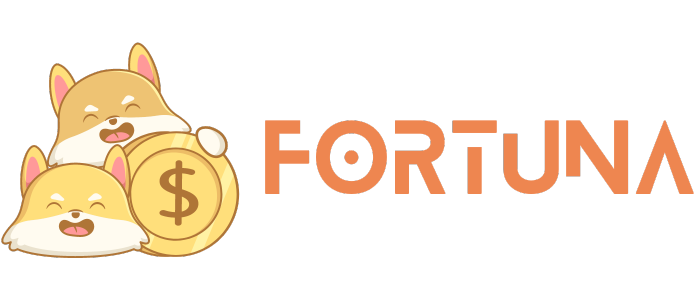
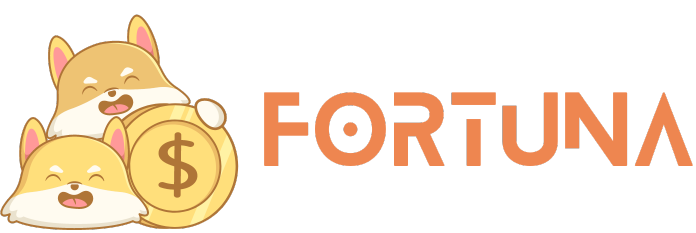
a

Changed region(s): [[0.0, 0.0601, 0.4224, 0.9914], [0.3621, 0.3906, 0.9957, 0.721]]

diff --git a/src/pages/team.js b/src/pages/team.js
@@ -1,0 +1,61 @@
+import React, { useEffect } from 'react';
+import { Card, Row, Col } from 'antd';
+import AOS from 'aos';
+import 'aos/dist/aos.css';
+import AdityaImg from '../assets/aditya.png';
+import SahilImg from '../assets/sahil.png';
+import VishalImg from '../assets/vishal.png';
+import ShankyImg from '../assets/shanky.png';
+import '../App.css'; // Import the CSS file containing the glowing effect class
+
+const Team = () => {
+    useEffect(() => {
+        AOS.init({ duration: 1000 });
+    }, []);
+
+    return (
+        <div style={{ padding: '20px' }}>
+            <h1 style={{ textAlign: 'center', marginBottom: '30px' }}>Our Team</h1>
+            <Row gutter={16} justify="center">
+                <Col span={6} data-aos="fade-up">
+                    <Card
+                        cover={<img alt="Team Member 1" src={AdityaImg} />}
+                        className="glowy"
+                        style={{ marginBottom: '20px' }}
+                    >
+                        <Card.Meta title="Aditya Verma" description="Project Manager & Developer" />
+                    </Card>
+                </Col>
+                <Col span={6} data-aos="fade-up" data-aos-delay="100">
+                    <Card
+                        cover={<img alt="Team Member 2" src={SahilImg} />}
+                        className="glowy"
+                        style={{ marginBottom: '20px', marginLeft: '20px' }}
+                    >
+                        <Card.Meta title="Sahil Adhikari" description="Developer" />
+                    </Card>
+                </Col>
+                <Col span={6} data-aos="fade-up" data-aos-delay="200">
+                    <Card
+                        cover={<img alt="Team Member 3" src={VishalImg} />}
+                        className="glowy"
+                        style={{ marginBottom: '20px', marginLeft: '20px' }}
+                    >
+                        <Card.Meta title="Vishal Mohan Nair" description="Developer" />
+                    </Card>
+                </Col>
+                <Col span={6} data-aos="fade-up" data-aos-delay="300">
+                    <Card
+                        cover={<img alt="Team Member 4" src={ShankyImg} />}
+                        className="glowy"
+                        style={{ marginBottom: '20px', marginLeft: '20px' }}
+                    >
+                        <Card.Meta title="Adityasankar Sengupta" description="Developer" />
+                    </Card>
+                </Col>
+            </Row>
+        </div>
+    );
+}
+
+export default Team;

diff --git a/src/components/navbar.js b/src/components/navbar.js
@@ -37,7 +37,7 @@ const Navbar = () => {
             <div className="grid grid-cols-12 my-10 md:mx-16 mx-8 font-[Montserrat]">
                 <div className="col-span-4 flex gap-12 items-center justify-between">
                     <h1 className="text-white text-xl font-[Inter]">
-                        <Link to={'/'}><img src={logo} className="" /></Link>
+                        <Link to={'/'}><img src={logo} style={{ transform: 'scale(1.8)' }} className="logo" /></Link>
                     </h1>
                     <Link to={'/redeem'}><span className="text-[#ee8650] font-[Oswald] hidden md:block font-semibold uppercase">Redeem</span></Link>
                     <Link to={'/create-link'}><span className="text-[#ee8650] font-[Oswald] hidden md:block font-semibold uppercase">Create</span></Link>
@@ -56,6 +56,7 @@ const Navbar = () => {
                             </span>
                         </Popover>
                     </div>
+                    <Link to={'/team'}><span className="text-[#ee8650] font-[Oswald] hidden md:block font-semibold uppercase">TEAM</span></Link>
                 </div>
                 <div className="col-span-5"></div>
                 <div className="col-span-3 flex items-center justify-end text-[#ee8650] text-sm md:text-base">

diff --git a/src/App.js b/src/App.js
@@ -7,6 +7,7 @@ import Footer from './components/footer';
 import CreateLink from './pages/create-link';
 import RedeemLanding from './pages/redeem-input';
 import '@rainbow-me/rainbowkit/styles.css';
+import Teamer from './pages/team';
 import {
   getDefaultWallets,
   RainbowKitProvider,
@@ -56,6 +57,7 @@ function App() {
             <Route path="/redeem/:id?" element={<ClaimReward />} />
             <Route path="/create-link" element={<CreateLink />} />
             <Route path="/my-nft" element={<MyNft />} />
+            <Route path="/team" element={<Teamer />} />
           </Routes>
         </div>
       </RainbowKitProvider>

diff --git a/src/App.css b/src/App.css
@@ -145,3 +145,19 @@ button[disabled] {
       text-shadow: 0 0 20px #ee8650, 0 0 30px #ff6100, 0 0 40px #ff2c00, 0 0 50px #ff0000, 0 0 60px #ff6100, 0 0 70px #ff2c00, 0 0 80px #ff0000;
   }
 }
+.glowy {
+  box-shadow: 0 0 25px #ee8650; /* Change the color and size as desired */
+  animation: glow1 1s ease-in-out infinite alternate; /* Define the glow animation */
+}
+
+@keyframes glow1 {
+  from {
+    box-shadow: 0 0 10px #ee8650; /* Initial shadow */
+  }
+  to {
+    box-shadow: 0 0 25px #ee8650; /* Final shadow */
+  }
+}
+.logo{
+  width: 500px !important;
+}
